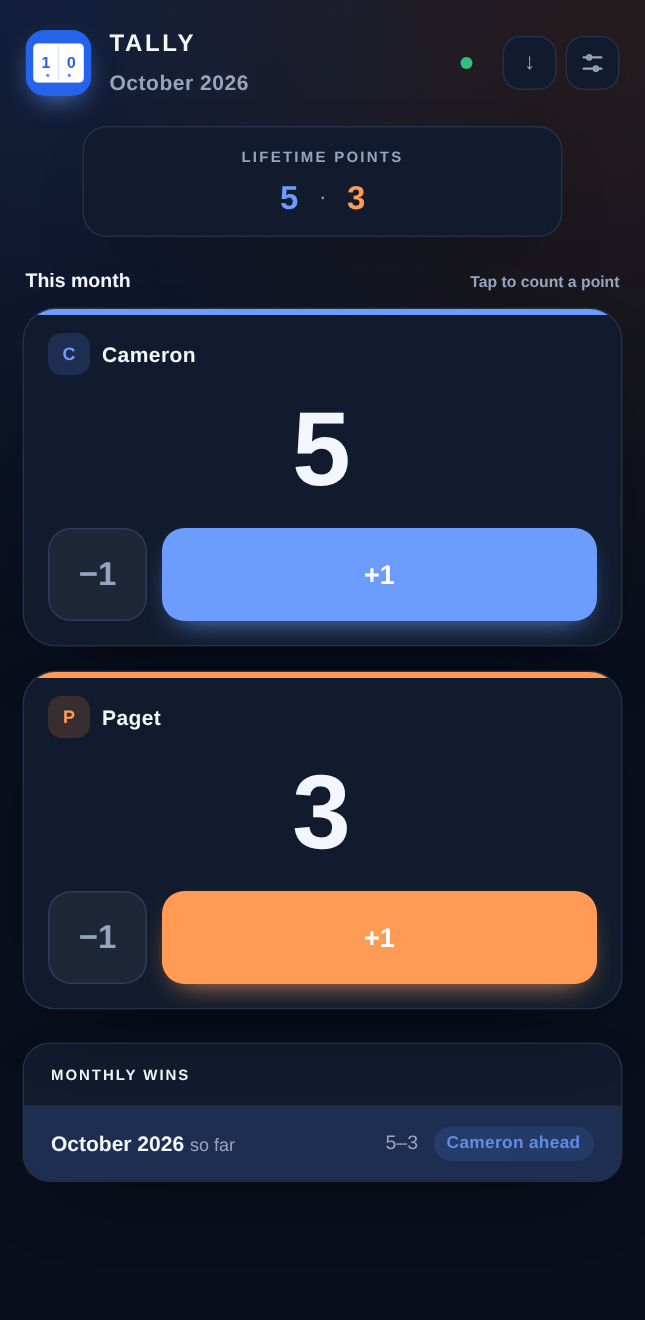
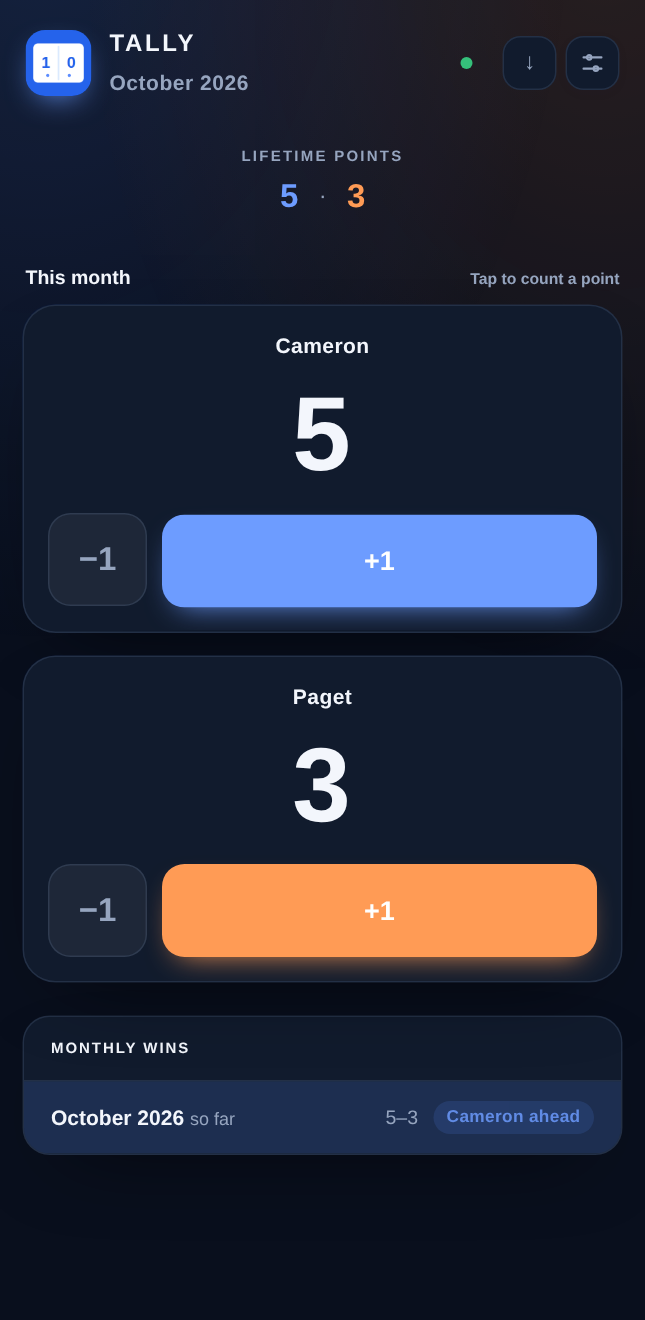
2.0.6: simplify player and lifetime cards
Remove the lifetime panel fill, player accent bars, and colored initials; center
the names and refresh screenshots for the updated visual hierarchy.

diff --git a/server.py b/server.py
@@ -14,7 +14,7 @@ PORT = int(os.environ.get("TALLY_PORT", "8080"))
 PLAYERS = ("cameron", "paget")
 LABELS = {"cameron": "Cameron", "paget": "Paget"}
 
-APP_VERSION = "2.0.5"
+APP_VERSION = "2.0.6"
 UPDATE_REPO = "Boldestfutura/Tally"
 UPDATE_BRANCH = "main"
 UPDATE_DIR = os.path.dirname(DATA) or "."
@@ -436,8 +436,7 @@ PAGE = """<!doctype html>
   .sync[data-off="1"] .dot{background:#e0a32e}
 
   .life{display:flex;flex-direction:column;align-items:center;gap:7px;margin:2px auto 20px;
-        width:min(100%,320px);padding:14px 20px;border:1px solid var(--card-brd);
-        border-radius:16px;background:var(--card);box-shadow:var(--shadow);text-align:center}
+        width:min(100%,320px);padding:14px 20px;text-align:center}
   .life .cap{font-size:9.5px;letter-spacing:.2em;text-transform:uppercase;
              color:var(--muted);font-weight:650}
   .life .vals{display:flex;align-items:center;justify-content:center;gap:14px;
@@ -689,14 +688,10 @@ PAGE = """<!doctype html>
   @media(min-width:640px){.grid{grid-template-columns:repeat(2,minmax(0,1fr))}}
   .card{padding:clamp(16px,2.6vw,24px);border-radius:22px;border:1px solid var(--card-brd);
         background:var(--card);box-shadow:var(--shadow);text-align:left;transition:transform .2s ease}
-  .card::before{content:"";position:absolute;inset:0 0 auto;height:4px;background:var(--accent)}
-  .card[data-lead="1"]{transform:translateY(-2px)}
+   .card[data-lead="1"]{transform:translateY(-2px)}
   .card[data-who="cameron"]{--accent:var(--a);--accent-soft:var(--a-soft)}
   .card[data-who="paget"]{--accent:var(--b);--accent-soft:var(--b-soft)}
-  .name{justify-content:flex-start;margin:0;color:var(--ink);font-size:14px;font-weight:750}
-  .name::before{content:attr(data-initial);display:grid;place-items:center;width:28px;height:28px;
-                border-radius:9px;background:var(--accent-soft);color:var(--accent);font-size:12px;
-                font-weight:850;letter-spacing:0}
+   .name{justify-content:center;margin:0;color:var(--ink);font-size:14px;font-weight:750}
    .score{margin:14px 0 18px;font-size:clamp(70px,13vw,108px);font-weight:780;
           letter-spacing:.02em;text-align:center}
    .row{gap:10px}
@@ -926,8 +921,8 @@ const grid=document.getElementById('grid');
 for(const [who,label] of PLAYERS){
   const c=document.createElement('section');
   c.className='card'; c.dataset.who=who; c.id='card-'+who;
-  c.innerHTML=
-    '<p class="name" data-initial="'+label[0]+'">'+label+'</p>'+
+    c.innerHTML=
+      '<p class="name">'+label+'</p>'+
     '<div class="score" id="s-'+who+'"><span class="n">0</span></div>'+
     '<div class="row">'+
       '<button class="sub" data-who="'+who+'" data-delta="-1" aria-label="Remove a point from '+label+'">\\u22121</button>'+
